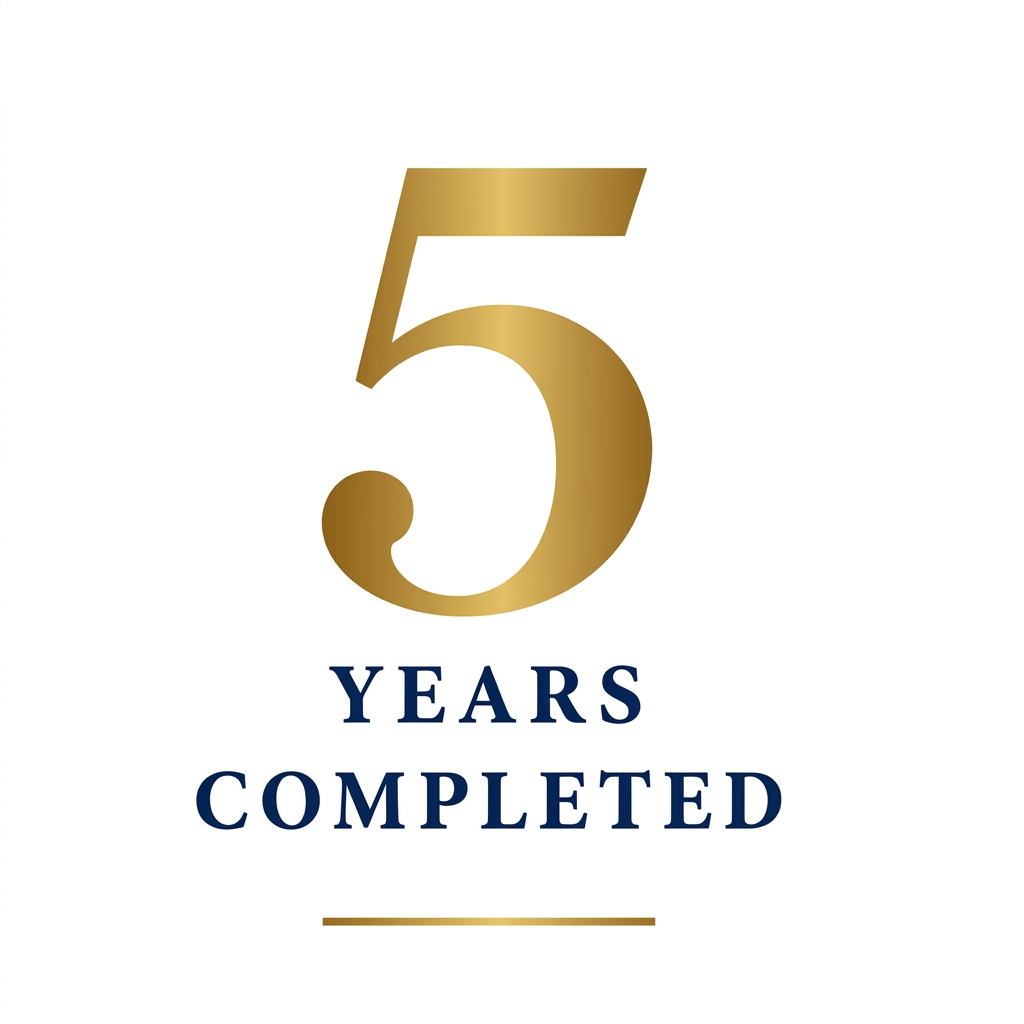
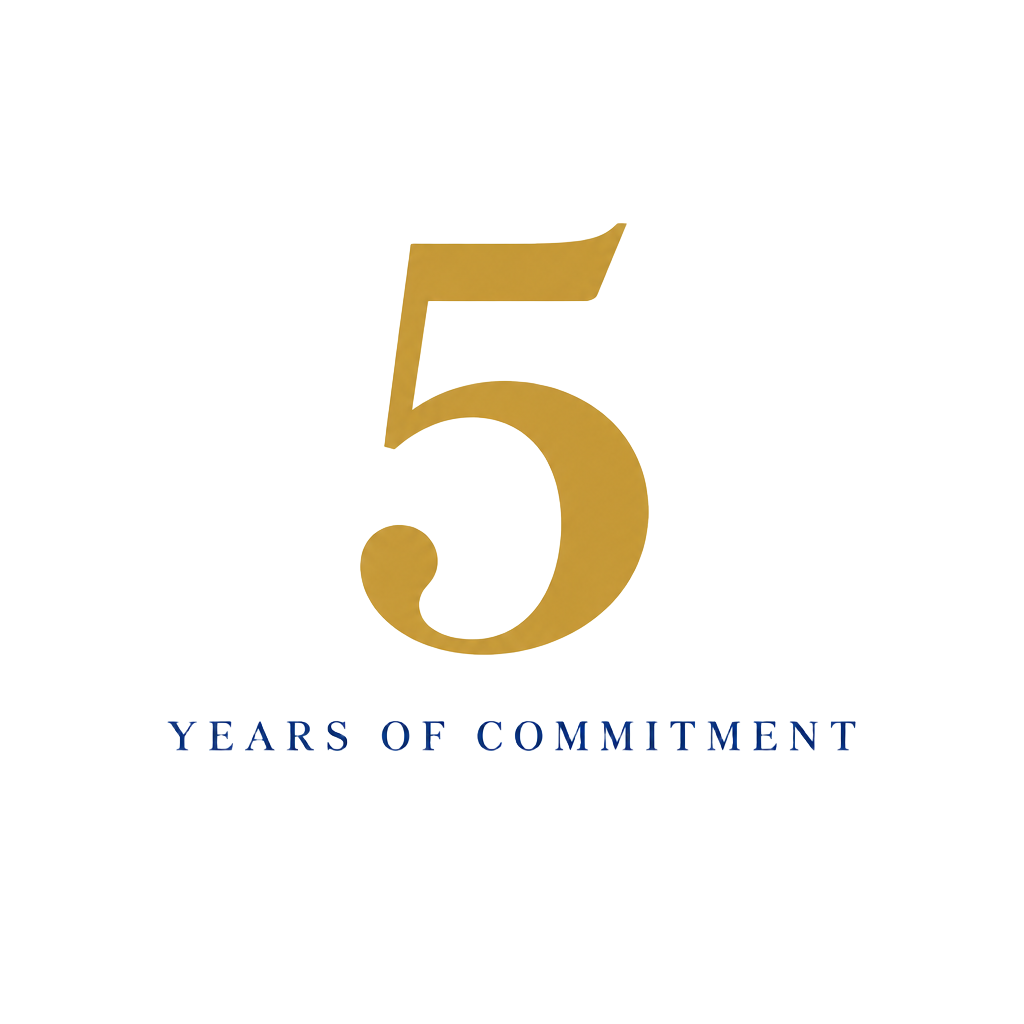
Changes

Changed region(s): [[0.1562, 0.1562, 0.8438, 0.8125], [0.3125, 0.875, 0.6562, 0.9062]]

diff --git a/src/routes/index.tsx b/src/routes/index.tsx
@@ -1,6 +1,6 @@
 import { useState, type FormEvent } from "react";
 import { createFileRoute } from "@tanstack/react-router";
-import { ArrowDown, ArrowRight, CalendarDays, Check, Clock3, ShieldCheck } from "lucide-react";
+import { ArrowDown, ArrowRight, CalendarDays, Check, Clock3, MapPin, ShieldCheck } from "lucide-react";
 import { z } from "zod";
 
 import fiveYearsMark from "@/assets/five-years-mark.png";
@@ -69,10 +69,10 @@ const programme = [
 ];
 
 const speakers = [
-  { name: "Mr. Debendra Rout", topic: "Journey of Incube Capital", image: debendraRout.url },
-  { name: "Fund Manager", topic: "Market Outlook", image: null },
-  { name: "Dr. Shyam Bhat", topic: "Purpose of Wealth and Well-being", image: drShyamBhat.url },
-  { name: "Jugal Popat", topic: "Estate Planning", image: jugalPopat.url },
+  { name: "Mr. Debendra Rout", line: "taking on Journey of Incube Capital", image: debendraRout.url },
+  { name: "Fund Manager", line: "taking on Market Outlook", image: null },
+  { name: "Dr Shyam Bhat", line: "taking on Purpose of Wealth & Well Being", image: drShyamBhat.url },
+  { name: "Jugal Popat", line: "speaking on Estate Planning & Transfer of Wealth", image: jugalPopat.url },
 ];
 
 function BeyondWealthRegistration() {
@@ -194,19 +194,23 @@ function BeyondWealthRegistration() {
             </div>
 
             <div className="flex flex-col gap-8 lg:col-span-4">
-              <img src={fiveYearsMark} alt="5 years completed" className="h-20 w-20 object-contain" />
+              <img src={fiveYearsMark} alt="5 years of commitment" className="h-20 w-20 object-contain" />
                <p className="max-w-sm text-2xl leading-snug text-foreground">
-                An afternoon of investment perspectives and market outlooks, created for your family’s financial future.
+                A day of investment perspectives and market outlooks, created for your family’s financial future.
               </p>
               <dl className="grid grid-cols-2 gap-6 border-y border-border py-6 lg:grid-cols-1">
                 <div>
                   <dt className="mb-1 flex items-center gap-2 text-[10px] font-semibold uppercase tracking-[0.16em] text-accent"><CalendarDays className="size-4" /> Date</dt>
                    <dd className="text-base font-medium text-foreground sm:text-lg">Sunday, 25 October 2026</dd>
                 </div>
-                <div>
-                  <dt className="mb-1 flex items-center gap-2 text-[10px] font-semibold uppercase tracking-[0.16em] text-accent"><Clock3 className="size-4" /> Time</dt>
-                   <dd className="text-base font-medium text-foreground sm:text-lg">10:15 AM – 1:00 PM</dd>
-                </div>
+                 <div>
+                   <dt className="mb-1 flex items-center gap-2 text-[10px] font-semibold uppercase tracking-[0.16em] text-accent"><Clock3 className="size-4" /> Time</dt>
+                    <dd className="text-base font-medium text-foreground sm:text-lg">10:15 AM – 1:00 PM</dd>
+                 </div>
+                 <div className="col-span-2 lg:col-span-1">
+                   <dt className="mb-1 flex items-center gap-2 text-[10px] font-semibold uppercase tracking-[0.16em] text-accent"><MapPin className="size-4" /> Address</dt>
+                    <dd className="text-base font-medium text-foreground sm:text-lg">Hilton Garden Inn, Whitefield, Bangalore, Karnataka, 560048</dd>
+                 </div>
               </dl>
               <Button asChild size="lg" className="h-13 w-fit rounded-none px-8 uppercase tracking-[0.12em]">
                 <a href="#register">Register now <ArrowRight /></a>
@@ -222,7 +226,7 @@ function BeyondWealthRegistration() {
 
       <section id="about" className="scroll-mt-20 bg-background px-5 py-20 sm:px-8 lg:py-28">
         <div className="mx-auto grid max-w-6xl gap-12 lg:grid-cols-[0.78fr_1.22fr] lg:gap-20">
-          <SectionHeading eyebrow="About the event" title="Perspectives beyond the numbers" />
+          <SectionHeading eyebrow="About the event" title="Perspectives beyond the wealth" />
           <div className="space-y-6 text-base leading-8 text-muted-foreground sm:text-lg">
             <p>Five years of conviction, clarity, and compounding trust, and this is only the beginning. Beyond Wealth marks Incube Capital's milestone anniversary with an exclusive gathering crafted for those who understand that true wealth is built on perspective, not just portfolios.</p>
             <p>This inaugural edition takes a deeper look at the journey that shaped Incube Capital, paired with a sharp, forward-looking lens on market dynamics and investment opportunities in an ever-evolving landscape.</p>
@@ -233,7 +237,7 @@ function BeyondWealthRegistration() {
 
       <section id="programme" className="scroll-mt-20 border-y border-primary/10 bg-secondary/45 px-5 py-20 sm:px-8 lg:py-28">
         <div className="mx-auto max-w-6xl">
-          <SectionHeading eyebrow="Event programme" title="The afternoon, thoughtfully arranged" centered />
+          <SectionHeading eyebrow="Event programme" title="The day, thoughtfully arranged" centered />
            <div className="mx-auto mt-12 max-w-4xl border-t border-border">
              {programme.map((item) => (
                <div key={item.time} className="grid gap-2 border-b border-border py-6 sm:grid-cols-[12rem_1fr] sm:items-center sm:gap-8">
@@ -254,17 +258,17 @@ function BeyondWealthRegistration() {
         <div className="mx-auto max-w-6xl">
           <SectionHeading eyebrow="Voices" title="Meet the perspectives shaping the conversation" centered />
            <div className="mx-auto mt-12 grid max-w-5xl gap-8 sm:grid-cols-2 lg:grid-cols-4">
-             {speakers.map((speaker) => (
-               <div key={speaker.topic} className="border-b border-border pb-6 text-center">
-                 {speaker.image ? (
-                   <img src={speaker.image} alt={speaker.name} className="aspect-square w-full object-cover" />
-                 ) : (
-                   <div className="flex aspect-square w-full items-center justify-center bg-secondary text-center">
-                     <span className="max-w-28 text-sm font-medium text-muted-foreground">Speaker to be confirmed</span>
-                   </div>
-                 )}
-                 <p className="mt-5 text-xl font-semibold text-foreground">{speaker.name}</p>
-                 <p className="mt-2 text-sm leading-5 text-muted-foreground">{speaker.topic}</p>
+              {speakers.map((speaker) => (
+                <div key={speaker.name} className="border-b border-border pb-6 text-center">
+                  {speaker.image ? (
+                    <img src={speaker.image} alt={speaker.name} className="aspect-square w-full object-cover" />
+                  ) : (
+                    <div className="flex aspect-square w-full items-center justify-center bg-secondary text-center">
+                      <span className="max-w-28 text-sm font-medium text-muted-foreground">Speaker to be confirmed</span>
+                    </div>
+                  )}
+                  <p className="mt-5 text-xl font-semibold text-foreground">{speaker.name}</p>
+                  <p className="mt-2 text-sm leading-5 text-muted-foreground">{speaker.line}</p>
               </div>
             ))}
           </div>
